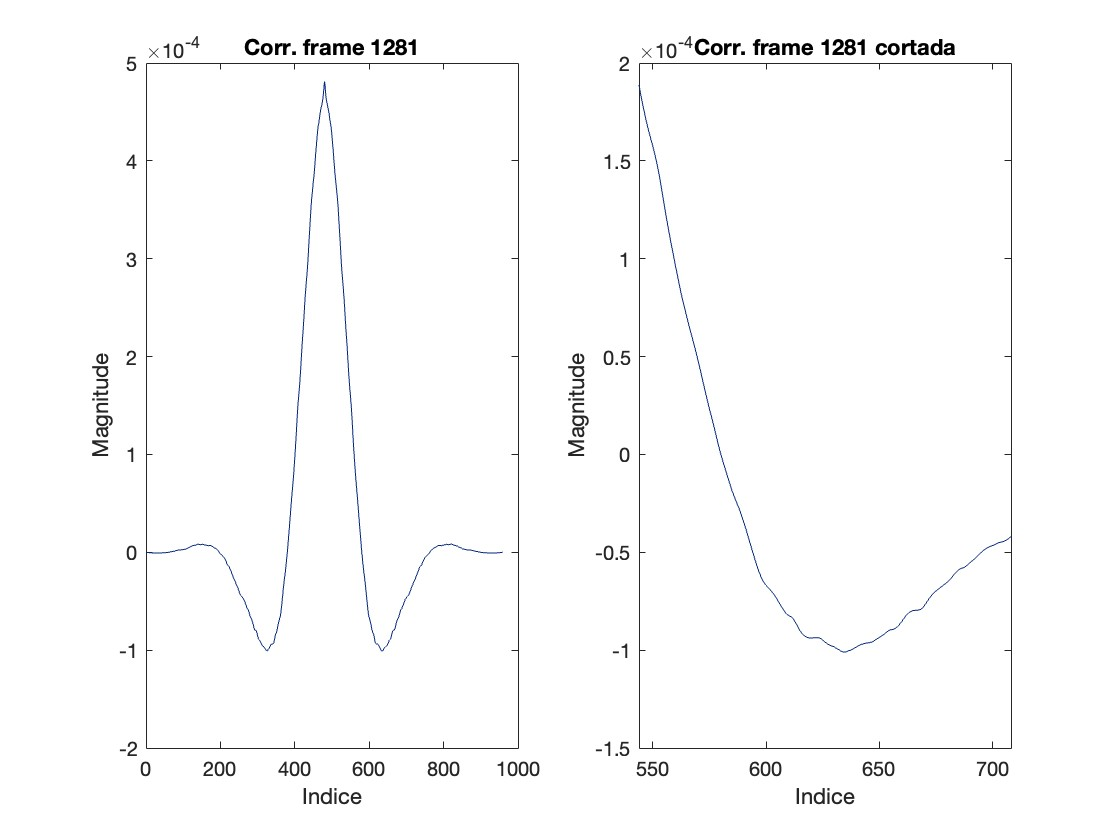
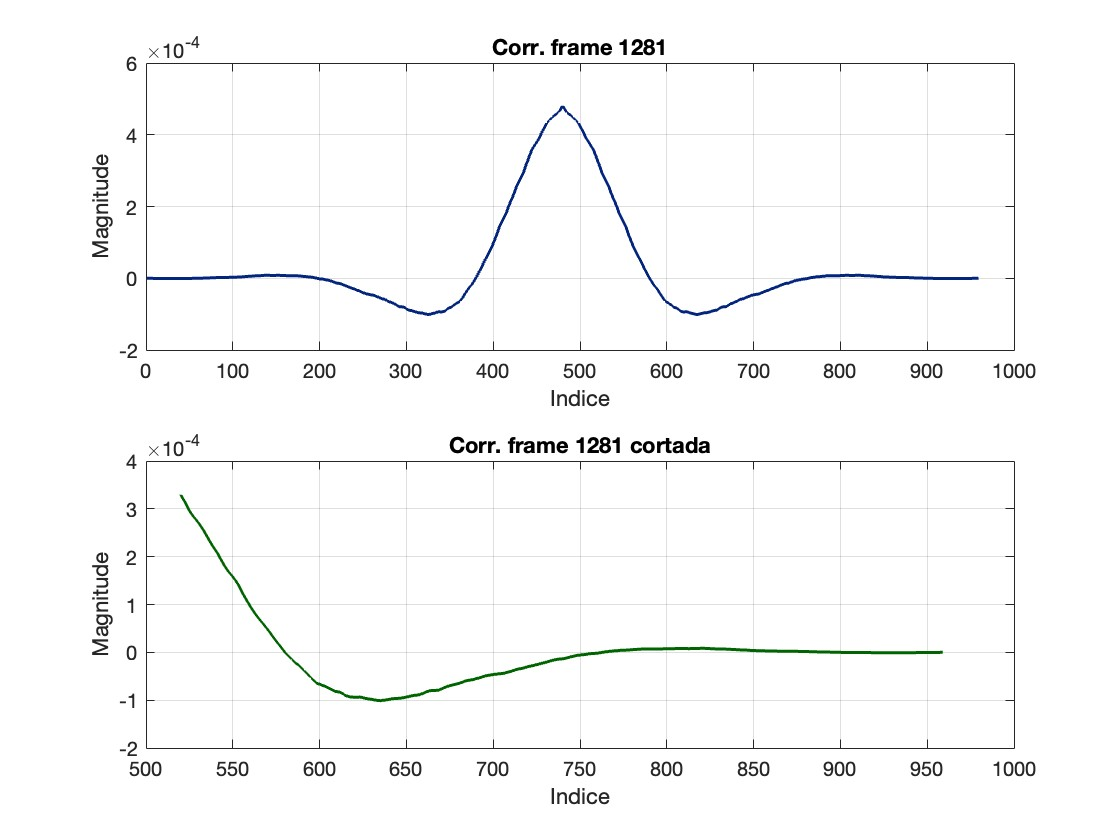
Novo filtro para f0 e f0 medio

diff --git a/tp2/work2_Real.m b/tp2/work2_Real.m
@@ -34,7 +34,6 @@ framestep = 0.01;                                  % 10 ms -> 1/3 of the window,
 frameSize = frameduration * newFs;                 % Size of analysis frame in samples
 overlap = (frameduration - framestep) * newFs;     % Overlap between frames in samples
 window = hamming(frameSize);                       % Windowing function - in this case Hamming, can be rectangular
-fprintf("Fsize: %d, overlap: %f, ", frameSize, overlap);
 % Initialize variables to store short-term characteristics
 numFrames = floor((length(y) - overlap) / (frameSize - overlap)); %Know number of frames
 
@@ -67,7 +66,6 @@ for i = 1:numFrames
     % f0_pitch(i) = pitch(frame,newFs);
     
 end
-fprintf("DEBUG: numero de frames: %d | tamanho energia: %d\n", numFrames, length(energy))
 aux = (1:length(energy)) .* framestep;
 
 % Energy plot
@@ -80,12 +78,15 @@ figure(4); plot(aux, zeroCrossingRate_filtered, '.', 'color', dark_blue); xlabel
 
 
 % Fundamental Freq. Plot
-figure(5); plot(aux, f0, '.', 'color', dark_green); xlabel("Frame"); ylabel('Frequency'); grid on; title("Frequência Fundamental por janela"); xlim([0 21]); drawnow;
+figure(5); plot(aux, f0, '.', 'color', dark_blue); xlabel("Frame"); ylabel('Frequency'); grid on; title("Frequência Fundamental por janela"); xlim([0 21]); drawnow;
 f0_filterd = medfilt1(f0, 20);
-figure(6); plot(aux, f0_filterd, '.', 'color', dark_blue); xlabel("Frame"); ylabel('Frequency'); grid on; title("Frequência Fundamental por janela após filtro mediana"); xlim([0 21]); drawnow;
+absDiff = abs(f0 - f0_filterd);
+f0_filterd(absDiff > 50) = NaN;
+figure(6); plot(aux, f0_filterd, '.', 'color', dark_green); xlabel("Frame"); ylabel('Frequency'); grid on; title("Frequência Fundamental por janela após filtro"); xlim([0 21]); drawnow;
+fprintf("\nValor médio f0: %.2f\n", mean(f0( (f0<150) & (f0>70))));
 
 binEdges = 50:10:400;
-figure(7); histogram(f0, binEdges, 'FaceColor', dark_blue); xlabel('Frequênciac Fundamental'); ylabel('Occorência em Frames'); title('Ocurrência de valores de F0');
+figure(7); histogram(f0, binEdges, 'FaceColor', dark_blue); xlabel('Frequência Fundamental'); ylabel('Occorência em Janelas'); title('Ocurrência de valores de F0');
 
 fprintf("End of the program.\n")
 
@@ -95,6 +96,7 @@ function [f0, number_frame] = calculateF0Autocorrelation(frame, fs, number_frame
     autocorr = xcorr(frame);
     
     dark_blue = 1/255 * [3,37,126];
+    dark_green = 1/255 * [0,100,0];
 
 
     % We need to search the second peak, because the first peak is always 0 
@@ -114,8 +116,8 @@ function [f0, number_frame] = calculateF0Autocorrelation(frame, fs, number_frame
     number_frame = number_frame + 1;
     if(number_frame==1281)
         figure(10); 
-        subplot(1,2,1); plot(autocorr, 'color', dark_blue); xlabel("Indice"); ylabel("Magnitude"); title("Corr. frame 1281");
-        subplot(1,2,2); plot((length(frame) + floor(fs/fo_max) : length(autocorr)) ,autocorr(length(frame) + floor(fs/fo_max) : length(autocorr)), 'color', dark_blue); xlabel("Indice"); ylabel("Magnitude"); title("Corr. frame 1281 cortada");
+        subplot(2,1,1); plot(autocorr, 'color', dark_blue, 'LineWidth', 1.5); xlabel("Indice"); ylabel("Magnitude"); title("Corr. frame 1281"); grid on;
+        subplot(2,1,2); plot((length(frame) + floor(fs/fo_max) : length(autocorr)) ,autocorr(length(frame) + floor(fs/fo_max) : length(autocorr)), 'color', dark_green, 'LineWidth', 1.5); xlabel("Indice"); ylabel("Magnitude"); title("Corr. frame 1281 cortada"); grid on;
     end
 
 

diff --git a/tp2/fo_range_aux.m b/tp2/fo_range_aux.m
@@ -10,15 +10,15 @@ dark_red = 1/255 * [139, 37, 20];
 x = -10:0.1:20;
 y = sinc(x-10).*sin(x-10);
 
-f_max = 30;
-f_min = 40;
+f_max = 311;
+f_min = 329;
 
 
 figure(1); 
 subplot(2,1,1); plot(x, y, 'color', dark_blue, 'LineWidth', 1.2); xlabel("tempo (s)"); ylabel('Amplitude'); grid off; title("y = sinc(x-10) * sin(x-10)");xlim([0 20]);
 
 y_corr = xcorr(y);
-subplot(2,1,2); plot(y_corr, 'color', dark_blue, 'LineWidth', 1.2); xlabel("Frequência (Hz)"); ylabel('Amplitude'); grid off; title("autocorrelção sinc(x)");xlim([0 50]);
+subplot(2,1,2); plot(y_corr, 'color', dark_green, 'LineWidth', 1.2); xlabel("Frequência (Hz)"); ylabel('Amplitude'); grid off; title("autocorrelção sinc(x)");xlim([200 400]);
 
 xline(f_max,'--r','1 / f_0max', 'color', dark_red, 'LineWidth', 1.5);
 xline(f_min,'--r','1 / f_0min', 'color', dark_red, 'LineWidth', 1.5);
